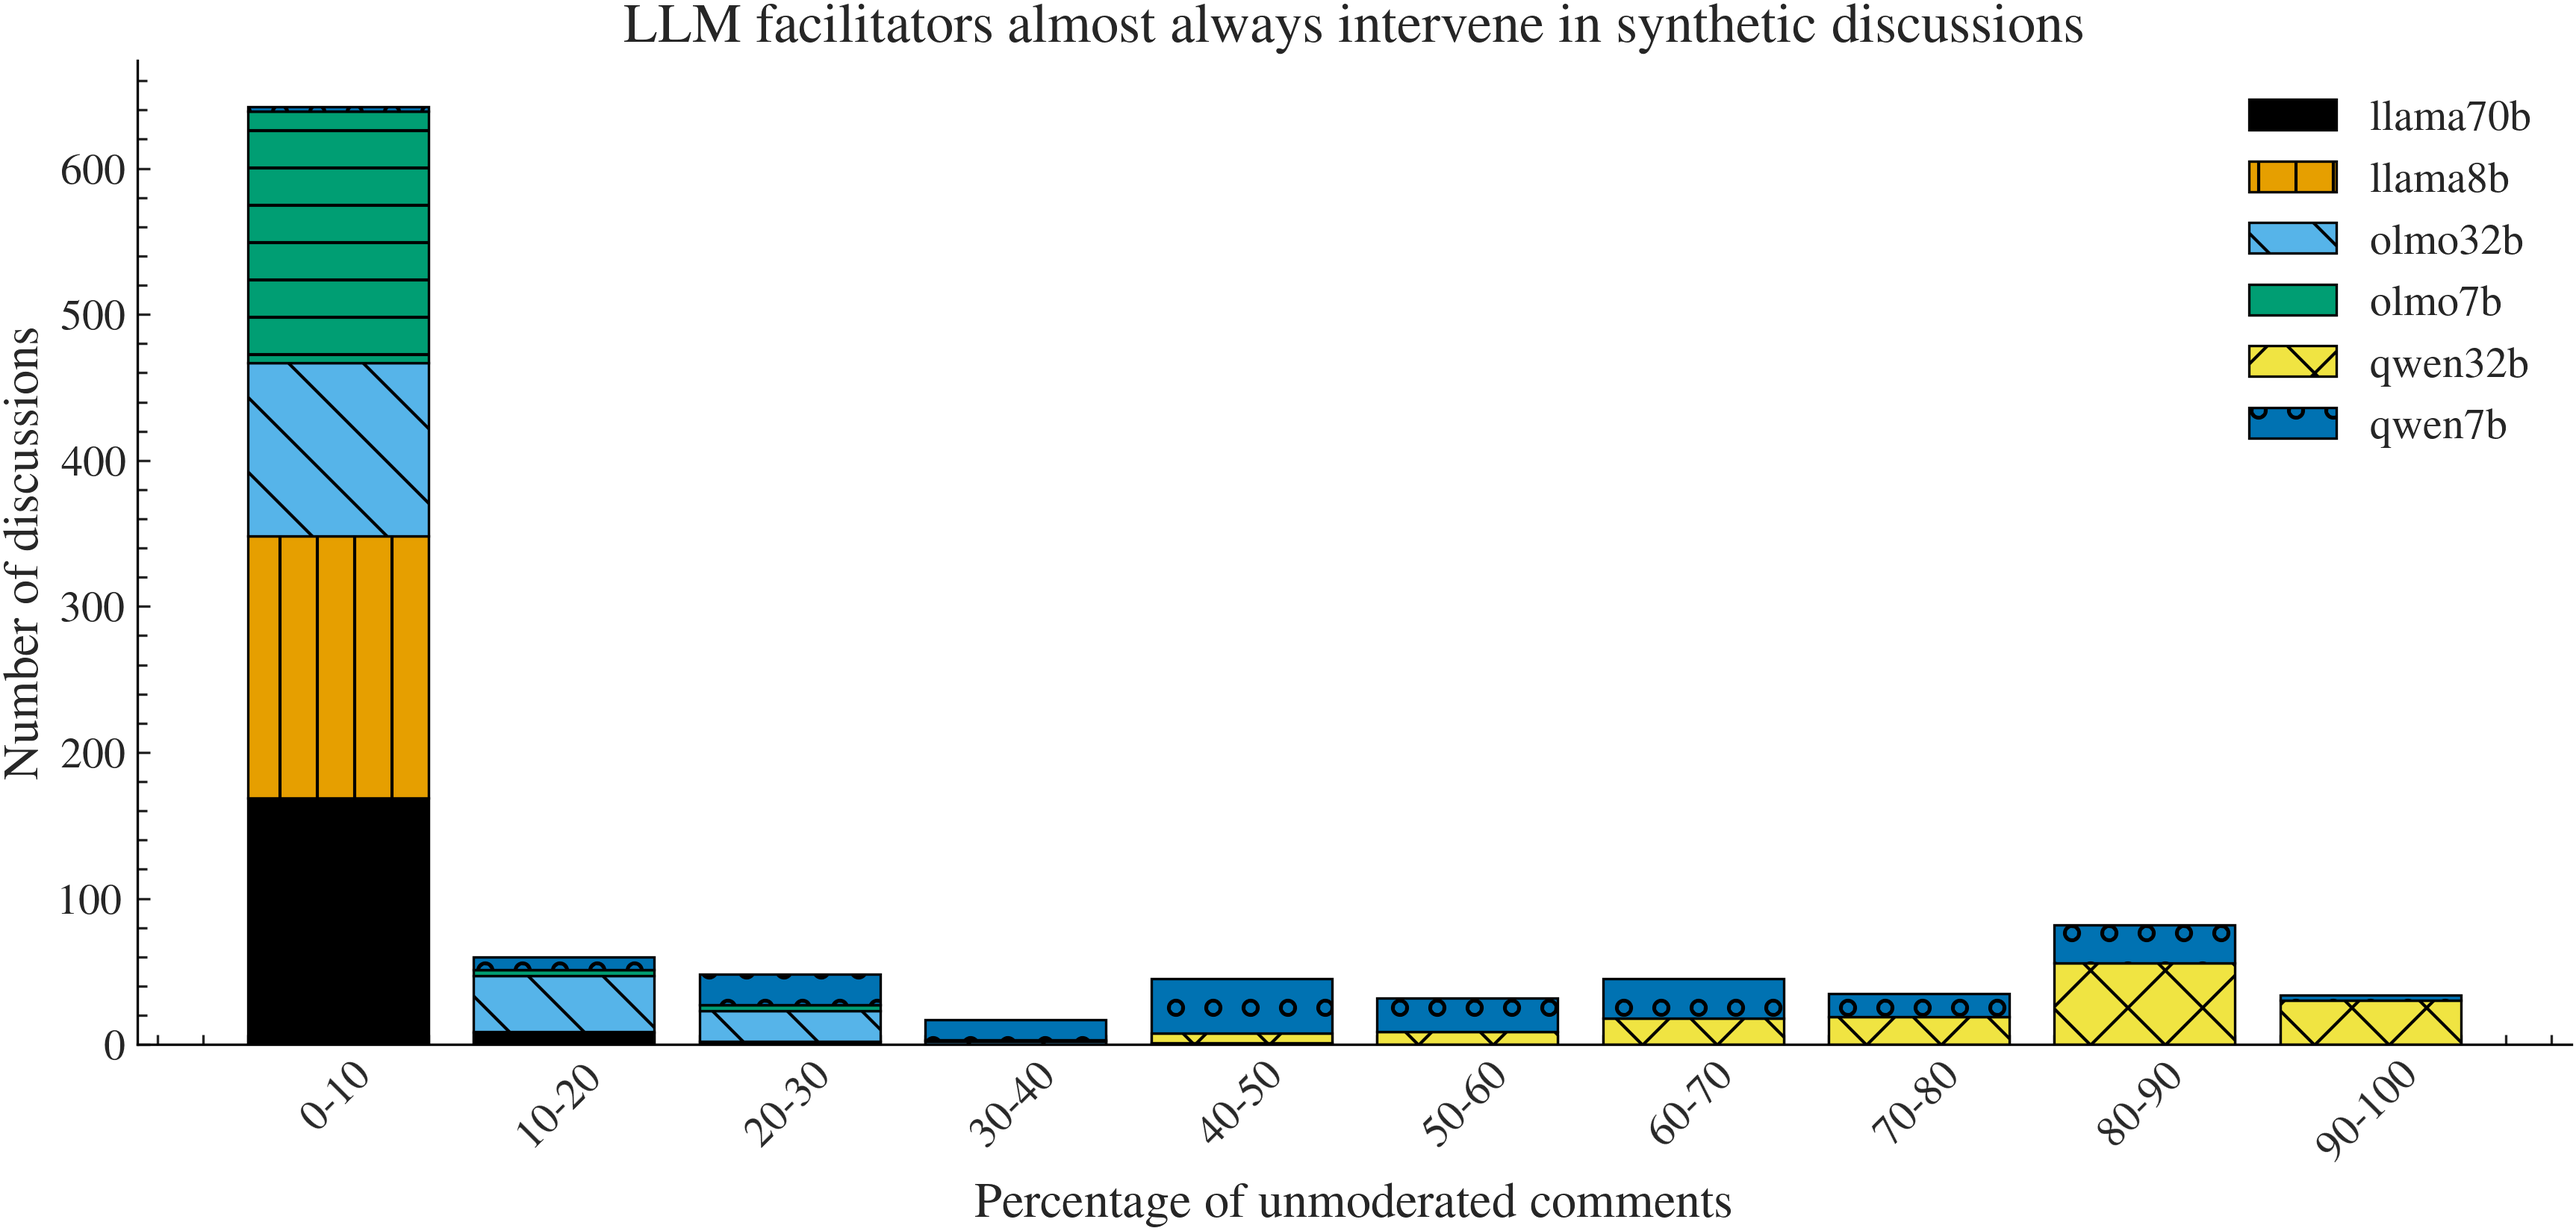
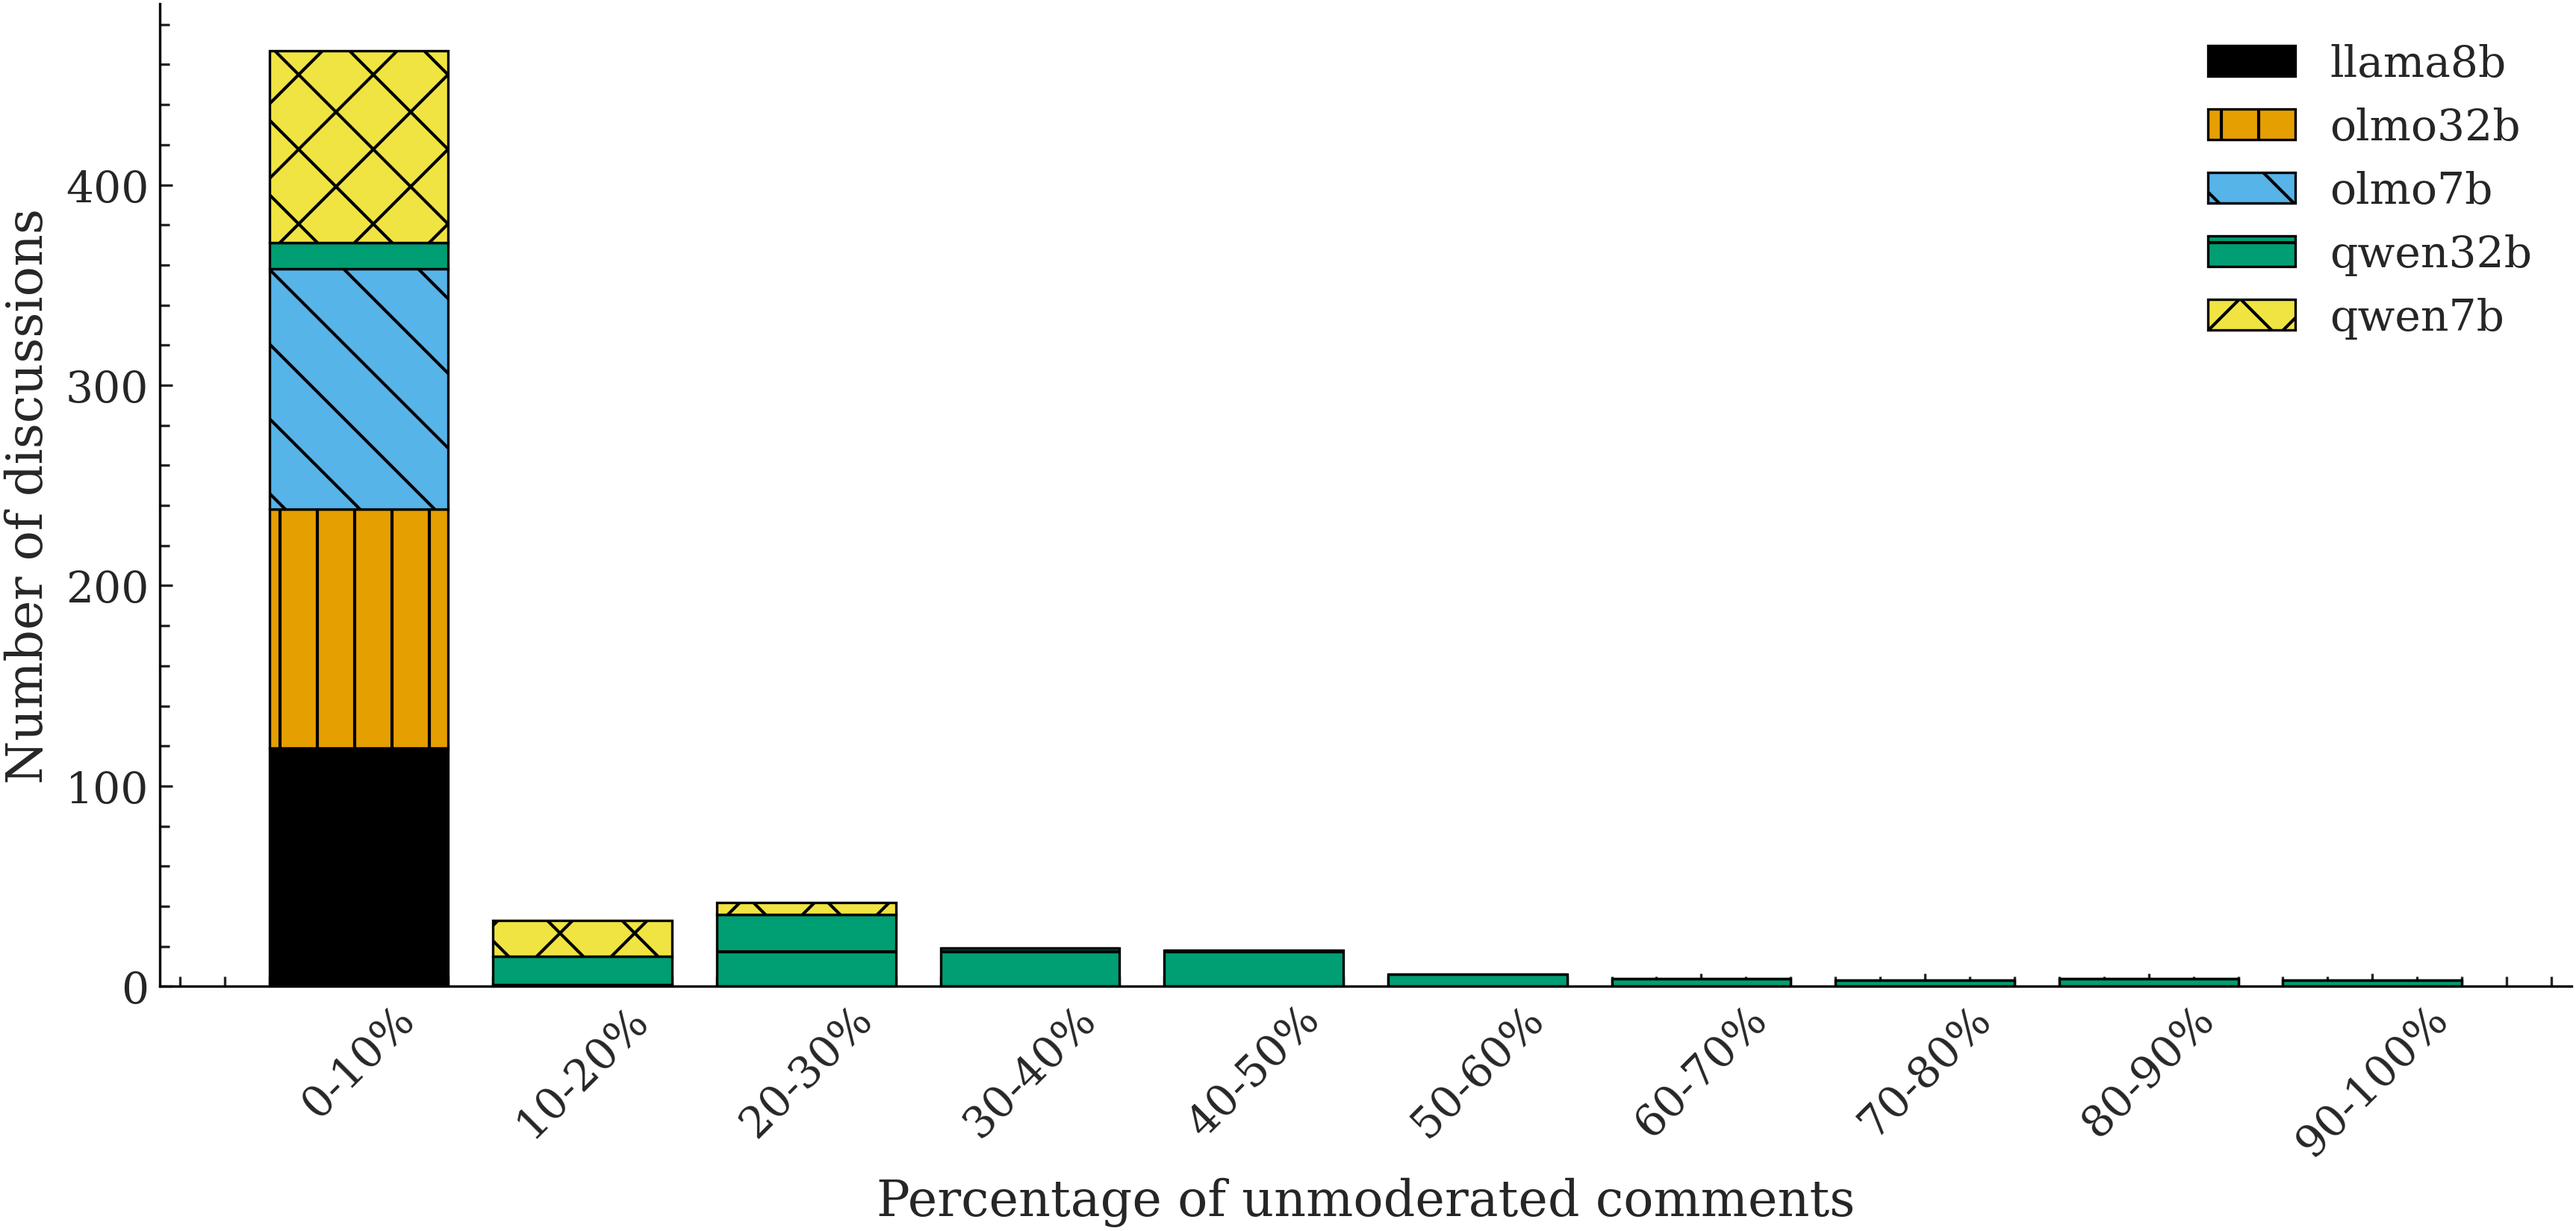
fix moderator plots

diff --git a/src/eval_moderation.py b/src/eval_moderation.py
@@ -9,54 +9,70 @@ import tasks.constants
 import tasks.graphs
 
 
-def get_intervention_df(df: pd.DataFrame, groupby_col: str) -> pd.DataFrame:
+def build_moderation_summary(
+    df: pd.DataFrame, groupby_col: str
+) -> pd.DataFrame:
+    """
+    Returns one row per conversation with:
+    - conv_id
+    - moderator model / strategy (groupby_col)
+    - intervention percentage (empty moderator replies)
+    """
     df = df.copy()
 
     # Keep only conversations with at least one moderator message
-    moderated_convs = df[df.is_moderator].conv_id.unique()
-    df = df.loc[df.conv_id.isin(moderated_convs), :]
-    df = df.loc[df.model != "hardcoded", :]
     mod_df = df[df.is_moderator]
+    moderated_convs = mod_df.conv_id.unique()
+    mod_df = mod_df[mod_df.conv_id.isin(moderated_convs)]
 
+    # Drop hardcoded moderators if needed
+    mod_df = mod_df[mod_df.model != "hardcoded"]
+
+    # Total moderator messages per conversation
     mod_total = mod_df.groupby("conv_id").size()
-    empty_msg = mod_df.message.astype(str).str.strip() == '""'
-    mod_empty = mod_df[empty_msg].groupby("conv_id").size()
-    mod_empty = mod_empty.reindex(mod_total.index, fill_value=0)
 
-    #   (empty moderator replies) / (all moderator replies) * 100
+    # Empty moderator messages per conversation
+    empty_msg = mod_df.message.astype(str).str.strip() == '""'
+    mod_empty = (
+        mod_df[empty_msg]
+        .groupby("conv_id")
+        .size()
+        .reindex(mod_total.index, fill_value=0)
+    )
+
     intervention_pct = (mod_empty / mod_total) * 100
-    groups = (
-        df.groupby("conv_id")[groupby_col].first().reindex(mod_total.index)
+
+    # Moderator model / strategy (must be unique per conversation)
+    moderator_group = (
+        mod_df.groupby("conv_id")[groupby_col].first().reindex(mod_total.index)
     )
 
     return pd.DataFrame(
         {
             "conv_id": mod_total.index,
-            groupby_col: groups.values,
+            groupby_col: moderator_group.values,
             "intervention_pct": intervention_pct.values,
         }
     ).reset_index(drop=True)
 
 
-def intervention_plot(intervention_df: pd.DataFrame, groupby_col: str) -> None:
+def intervention_plot(summary_df: pd.DataFrame, groupby_col: str) -> None:
     # Create bins 0–10, 10–20, ..., 90–100
     bins = np.arange(0, 110, 10)
-    intervention_df["intervention_bin"] = pd.cut(
-        intervention_df["intervention_pct"],
+    summary_df["intervention_bin"] = pd.cut(
+        summary_df["intervention_pct"],
         bins=bins,
         right=False,
         include_lowest=True,
     )
 
-    # Count rows in each (bin × variant)
+    # Count discussions per (bin × group)
     grouped = (
-        intervention_df.groupby(["intervention_bin", groupby_col])
+        summary_df.groupby(["intervention_bin", groupby_col])
         .size()
         .unstack(fill_value=0)
     )
-    #print(grouped) # debug
 
-    # Prepare figure
     fig, ax = plt.subplots(figsize=(12, 6))
     x = np.arange(len(grouped))
     bottom = np.zeros(len(grouped))
@@ -64,21 +80,19 @@ def intervention_plot(intervention_df: pd.DataFrame, groupby_col: str) -> None:
     colors = tasks.graphs.COLORBLIND_PALETTE
     hatches = tasks.constants.HATCHES
 
-    # Plot stacked bars
-    for i, variant in enumerate(grouped.columns):
-        counts = grouped[variant].values
+    for i, group in enumerate(grouped.columns):
+        counts = grouped[group].values
         ax.bar(
             x,
             counts,
             bottom=bottom,
-            label=variant,
+            label=group,
             color=colors[i % len(colors)],
             edgecolor="black",
             hatch=hatches[i % len(hatches)],
         )
         bottom += counts
 
-    # X-tick labels (e.g., "0–10%", "10–20%")
     ax.set_xticks(x)
     ax.set_xticklabels(
         [f"{int(iv.left)}-{int(iv.right)}%" for iv in grouped.index],
@@ -87,9 +101,6 @@ def intervention_plot(intervention_df: pd.DataFrame, groupby_col: str) -> None:
 
     ax.set_xlabel("Percentage of unmoderated comments")
     ax.set_ylabel("Number of discussions")
-    ax.set_title(
-        "LLM facilitators almost always intervene in synthetic discussions"
-    )
     ax.legend()
 
     plt.tight_layout()
@@ -98,11 +109,16 @@ def intervention_plot(intervention_df: pd.DataFrame, groupby_col: str) -> None:
 def moderation_analysis(
     df: pd.DataFrame, groupby_col: str, graph_output_path: Path
 ) -> None:
-    mod_df = get_intervention_df(df, groupby_col=groupby_col)
-    intervention_plot(
-        intervention_df=mod_df,
+    summary_df = build_moderation_summary(
+        df=df,
         groupby_col=groupby_col,
     )
+
+    intervention_plot(
+        summary_df=summary_df,
+        groupby_col=groupby_col,
+    )
+
     tasks.graphs.save_plot(graph_output_path)
     plt.close()
 
